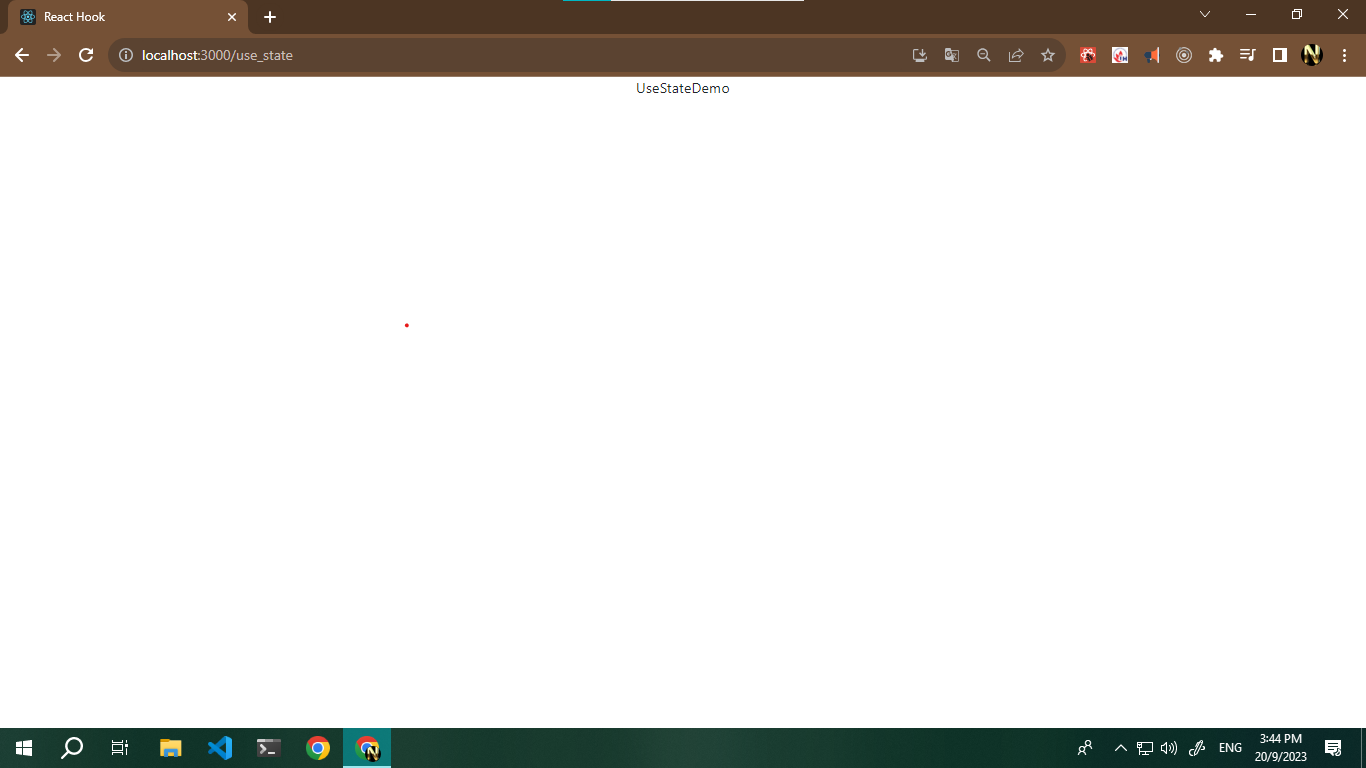
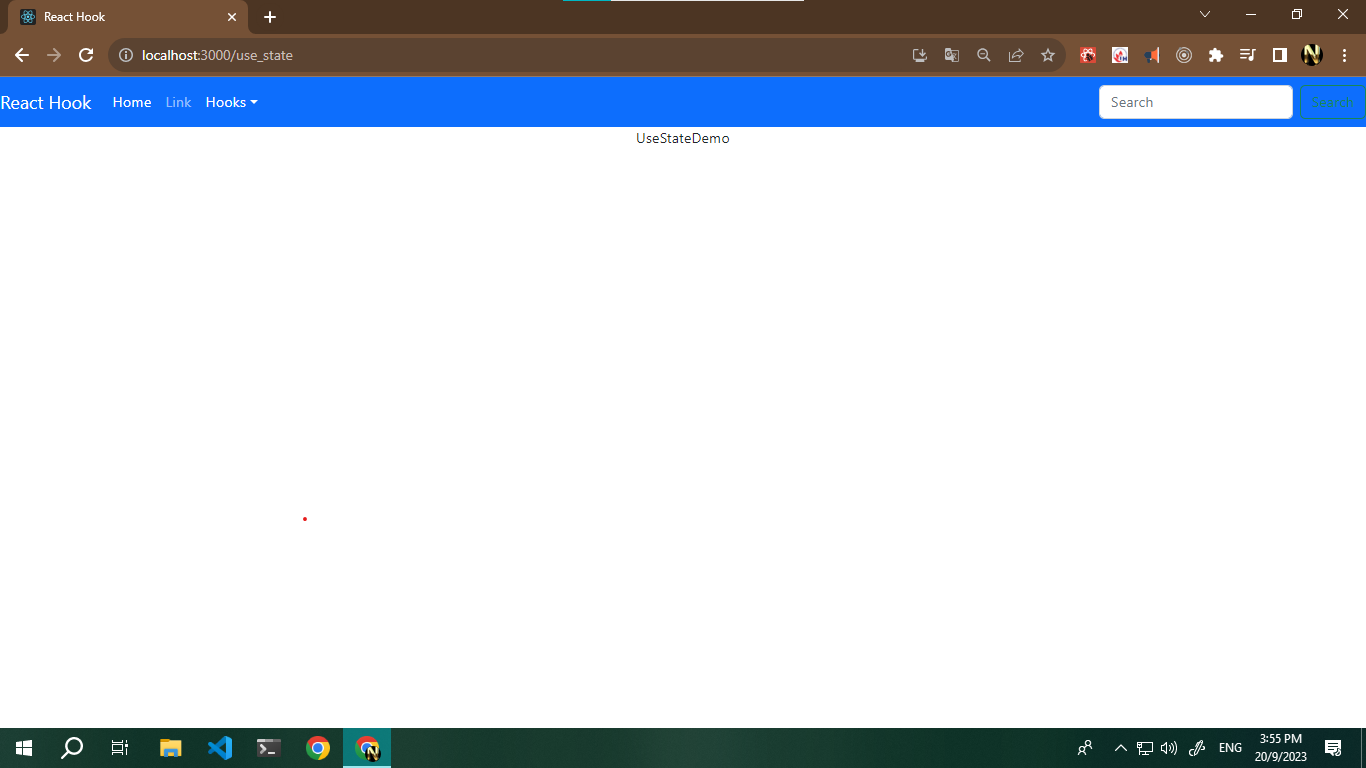
add 1 navbar

Changed region(s): [[0.0, 0.0938, 1.0, 0.1875]]

diff --git a/react_buoi10/src/components/HearHome.jsx b/react_buoi10/src/components/HearHome.jsx
@@ -1,0 +1,76 @@
+//rfc
+import React from "react";
+import {NavLink} from "react-router-dom";
+
+export default function HearHome() {
+  return (
+    <>
+      <nav className="navbar navbar-expand-sm navbar-dark bg-primary">
+        <NavLink className="navbar-brand" to="/">
+          React Hook
+        </NavLink>
+        <button
+          className="navbar-toggler d-lg-none"
+          type="button"
+          data-bs-toggle="collapse"
+          data-bs-target="#collapsibleNavId"
+          aria-controls="collapsibleNavId"
+          aria-expanded="false"
+          aria-label="Toggle navigation"
+        />
+        <div className="collapse navbar-collapse" id="collapsibleNavId">
+          <ul className="navbar-nav me-auto mt-2 mt-lg-0">
+            <li className="nav-item">
+              <NavLink className="nav-link active" to="/" aria-current="page">
+                Home <span className="visually-hidden">(current)</span>
+              </NavLink>
+            </li>
+            <li className="nav-item">
+              <a className="nav-link" href="#">
+                Link
+              </a>
+            </li>
+            <li className="nav-item dropdown">
+              <NavLink
+                className="nav-link dropdown-toggle"
+                to="#"
+                id="dropdownId"
+                data-bs-toggle="dropdown"
+                aria-haspopup="true"
+                aria-expanded="false"
+              >
+                Hooks
+              </NavLink>
+              <div className="dropdown-menu" aria-labelledby="dropdownId">
+                <NavLink className="dropdown-item" to="/use_state">
+                  Use State
+                </NavLink>
+                <NavLink className="dropdown-item" to="/use_effect">
+                  Use Effect
+                </NavLink>
+                
+                <NavLink className="dropdown-item" to="/">
+                  My home
+                </NavLink>
+                
+              </div>
+            </li>
+          </ul>
+          <form className="d-flex my-2 my-lg-0">
+            <input
+              className="form-control me-sm-2"
+              type="text"
+              placeholder="Search"
+            />
+            <button
+              className="btn btn-outline-success my-2 my-sm-0"
+              type="submit"
+            >
+              Search
+            </button>
+          </form>
+        </div>
+      </nav>
+    </>
+  );
+}

diff --git a/react_buoi10/src/App.js b/react_buoi10/src/App.js
@@ -1,9 +1,13 @@
 import { Outlet } from "react-router-dom";
 import "./App.css";
+import HearHome from "./components/HearHome";
 
 function App() {
   return (
     <div className="App">
+      <header>
+        <HearHome />
+      </header>
       <Outlet />
     </div>
   );

diff --git a/react_buoi10/src/pages/UseEffectDemo/UseEffectDemo.jsx b/react_buoi10/src/pages/UseEffectDemo/UseEffectDemo.jsx
@@ -4,7 +4,7 @@ import React from 'react'
 export default function UseEffectDemo() {
   return (
     <div>
-      
+      UseEffectDemo
     </div>
   )
 }
